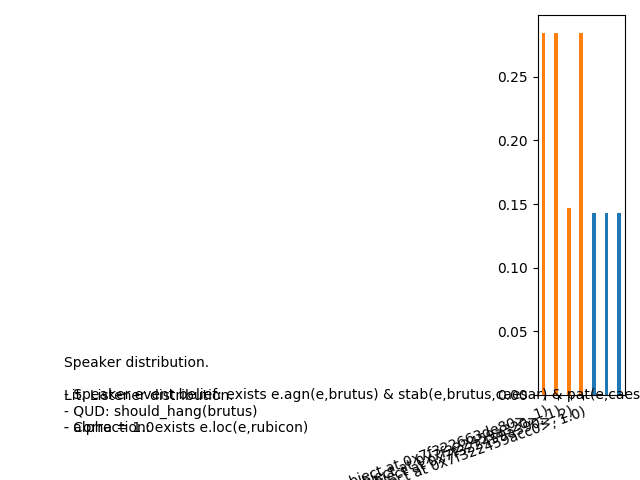
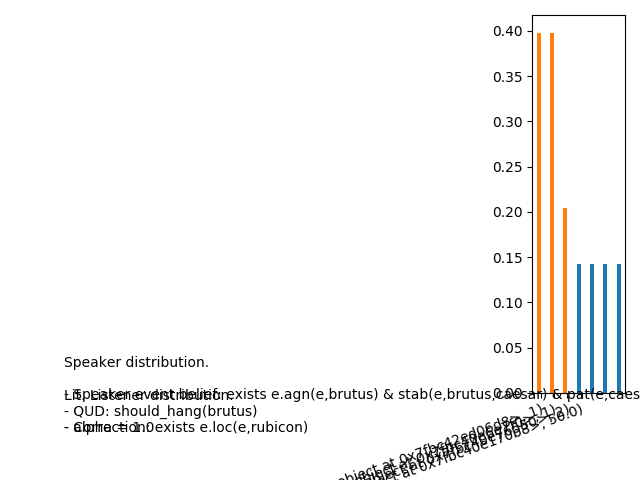
literal listener: evaluation needs debug

Changed region(s): [[0.5312, 0.0312, 0.9688, 1.0]]

diff --git a/proj/comp_implt.py b/proj/comp_implt.py
@@ -58,11 +58,14 @@ class L:
         interjector_belief=belief_prior(self.B) #state_prior() in RSAhyperb
         replacement = self.belief.replace_constituents_in_utt(correction)
         print("L0's replacement: ",replacement)
-
-        if replacement == self.belief: #TODO test if this works
-            evaluation = True
-        else: #bug here or in speaker project afaik #lit plot shows no interp
-            evaluation = rpc(goal=interjector_belief.L(), assumptions=self.swk+[replacement.L()]).prove()
+        print("L0's sampled interj belief: ", interjector_belief)
+        evaluation = rpc(goal=interjector_belief.L(), assumptions=self.swk+[replacement.L()]).prove()
+        #^the above doesnt prove interj belief based on replacement unless
+        #replacement == interj belief
+        #cannot make soft inference
+        print("L0's evaluation: ", evaluation)
+        #solution: sample from inventory of extra roles and replace in replacement stochastically
+        #so evaluation was always false unless null utterance was checked 
 
         factor("literal meaning", 0. if evaluation else -99999999.)#condition on s1 belief, correctly infers belief in basic scenario, how do i get blue ambiguity?
         print("+"*20+ "    /listener   "+"\\"*20+"\n")
@@ -194,7 +197,7 @@ class S:
         """
         v = pyro.sample("proj",dist)
         print("sampled v : ", v, type(v))
-        qud_interp = rpc(goal=self.QUDs[qud],assumptions=self.swk+[v]).prove()
+        qud_interp = rpc(goal=self.QUDs[qud],assumptions=self.swk+[v.L()]).prove()
 
         return qud_interp
 

diff --git a/proj/court.py b/proj/court.py
@@ -57,6 +57,7 @@ quds = {
         "great": expr("great(brutus)"),
 }
 
+defense_belief = beliefs[1]
 last_statement_made = beliefs[0]
 
 correction = phrase([rubicon])
@@ -67,10 +68,10 @@ alpha = 1.
 TIME = helpers.Timer()
 P2F = helpers.ProfileToFile()
 
-defense_attorney = S(alpha, swk, beliefs, beliefs[1], quds)
+defense_attorney = S(alpha, swk, beliefs, defense_belief, quds)
 prosecutor = L(alpha, swk, beliefs, last_statement_made, quds)
 
-with P2F("s1 and l1 calculation times", f="stats/calc1.stats"):
+with TIME("s1 and l1 calculation"):
 
     lit_listener_dist = prosecutor.L0(correction)
     plot_dist(lit_listener_dist, output="plots/lit_listener.png", addinfo="Lit. Listener distribution.\n\n- Correction: "+str(phrase([rubicon])))
